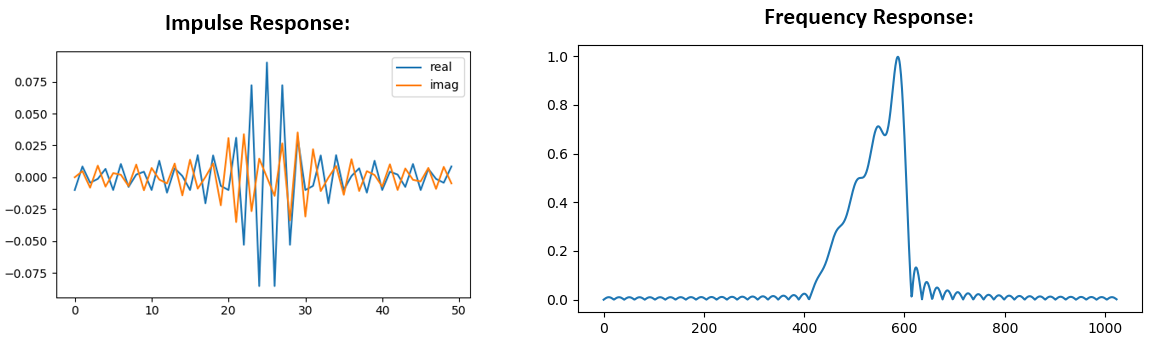
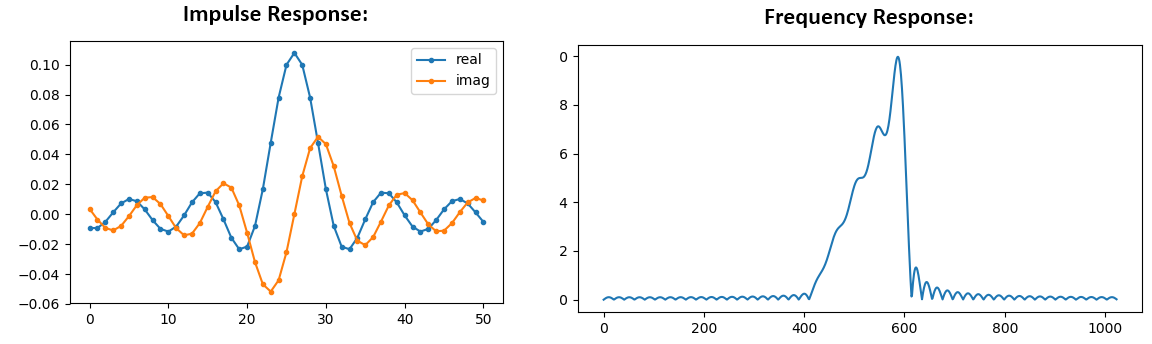
cleaned up filters chapter

diff --git a/conf.py b/conf.py
@@ -153,7 +153,7 @@ html_sidebars = {
 html_theme_options = {'description':'By <a href="https://www.cs.umd.edu/people/sdr">Dr. Marc Lichtman</a>',
                       'logo': 'logo.svg',
                       'logo_name': True, # used if the logo doesn't contain the project name itself
-                      'fixed_sidebar': True,
+                      #'fixed_sidebar': True, # on smaller screens you cant see the whole sidebar, and it wont scroll
                       'page_width': '1000px',
                       'sidebar_width': '280px',
                       'show_powered_by': False,}

diff --git a/content/filters.rst b/content/filters.rst
@@ -197,7 +197,7 @@ As an example of complex taps, let's go back to the filtering use-case, except t
    :scale: 70 % 
    :align: center 
 
-One way to design this kind of filter is to make a low-pass filter with a cutoff of 3 kHz and then frequency shift it.  Remember that we can frequency shift x(t) (time domain) by multiplying it by :math:`e^{j2\pi f_0t}`.  So in this case :math:`f_0` should be 10 kHz, that way it shifts our filter up by 10 kHz. Recall that in our Python code from above, h was the filter taps of the low-pass filter.  In order to create our band-pass filter we just have to multiply those taps by :math:`e^{j2\pi f_0t}`, although that involves creating a vector to represent time, based on our sample period (inverse of sample rate):
+One way to design this kind of filter is to make a **low**-pass filter with a cutoff of 3 kHz and then frequency shift it.  Remember that we can frequency shift x(t) (time domain) by multiplying it by :math:`e^{j2\pi f_0t}`.  So in this case :math:`f_0` should be 10 kHz, that way it shifts our filter up by 10 kHz. Recall that in our Python code from above, h was the filter taps of the low-pass filter.  In order to create our band-pass filter we just have to multiply those taps by :math:`e^{j2\pi f_0t}`, although that involves creating a vector to represent time, based on our sample period (inverse of sample rate):
 
 .. code-block:: python
 	
@@ -292,7 +292,7 @@ where the 0.99 and 0.01 represent the speed the value updates (or rate of decay,
 Filter Design Tools
 *************************
 
-Like I mentioned, we typically use a filter designer tool in practice.  There are plenty of different tools, but for students I recommend this easy-to-use web app by Peter Isza that will show you impulse and frequency response: http://t-filter.engineerjs.com.  Using the default values, at the time of writing this at least, it's set up to design a low-pass filter with a passband from 0 to 400 Hz and stopband from 500 Hz and up.  The sample rate is 2 kHz, so the max frequency we can "see" is 1 kHz. 
+In practice, most people will use a filter designer tool, or a function in code that designs the filter.  There are plenty of different tools, but for students I recommend this easy-to-use web app by Peter Isza that will show you impulse and frequency response: http://t-filter.engineerjs.com.  Using the default values, at the time of writing this at least, it's set up to design a low-pass filter with a passband from 0 to 400 Hz and stopband from 500 Hz and up.  The sample rate is 2 kHz, so the max frequency we can "see" is 1 kHz. 
 
 .. image:: ../_static/filter_designer1.PNG
    :scale: 70 % 
@@ -319,7 +319,7 @@ Convolution
 
 We will take a brief detour to introduce the convolution operator, feel free to skip this section if you are already familiar with it.
 
-Adding two signals together is one way of combining two signals into one, in the Fourier chapter we talked about how the linearity property applies when adding two signals together.  Convolution is another way to combine two signals into one, but it is very different than simply adding them.  The convolution of two signals is like sliding one across the other and integrating.  It is *very* similar to a cross-correlation, if you are familiar with that operation, in fact it is equivalent in a cross-correlation in many cases.  
+Adding two signals together is one way of combining two signals into one, in the Fourier chapter we talked about how the linearity property applies when adding two signals together.  Convolution is another way to combine two signals into one, but it is very different than simply adding them.  The convolution of two signals is like sliding one across the other and integrating.  It is *very* similar to a cross-correlation, if you are familiar with that operation, in fact it is equivalent to a cross-correlation in many cases.  
 
 I believe the convolution operation is best learned through examples.  Please watch both of these videos:
 
@@ -328,19 +328,21 @@ I believe the convolution operation is best learned through examples.  Please wa
 
 In both examples, we have two input signals (one red, one blue), and then the output of the convolution is displayed.  You can see that the output is the integration of the two signals as one slides across the other.  Because of this "sliding" nature, the length of the output is actually longer than the input.  If one signal is :code:`M` samples and the other signal is :code:`N` samples, the convolution of the two can produce :code:`N+M-1` samples.  However, functions such as :code:`numpy.convolve()` have a way to specify whether you want the whole output, or just :code:`max(M, N)` samples, or just the samples where the signals overlapped completely, which is :code:`max(M, N) - min(M, N) + 1` if you were curious.  No need to get caught up in this detail, just know that the length of the output of a convolution is not just the length of the inputs.  
 
-Now why does convolution matter in DSP?  Well for starters, to filter a signal, we can simply take the impulse response and convolve it with the signal.  FIR filters are just a discrete convolution.  
+So why does convolution matter in DSP?  Well for starters, to filter a signal, we can simply take the impulse response of that filter and convolve it with the signal.  It turns out FIR filtering is just a convolution operation.  
 
 .. image:: ../_static/filter_convolve.PNG
    :scale: 70 % 
    :align: center 
 
-This might be confusing because I mentioned that convolution takes in two signals and outputs one signal.  Well we can treat the impulse response like a signal, convolution is just a math operator after all, which operates on two 1D arrays.  If one of those 1D arrays is the filter's impulse response, the other 1D array can be a piece of the input signal, and the output will be a filtered version of the input.  Let's see another example to help this click.  In the example below, the triangle will represent our filter's impulse response, and the :green:`green` signal is our signal being filtered.  
+This might be confusing because earlier we mentioned that convolution takes in two *signals* and outputs one signal.  Well we can treat the impulse response like a signal, convolution is just a math operator after all, which operates on two 1D arrays.  If one of those 1D arrays is the filter's impulse response, the other 1D array can be a piece of the input signal, and the output will be a filtered version of the input.  Let's see another example to help this click.  In the example below, the triangle will represent our filter's impulse response, and the :green:`green` signal is our signal being filtered.  
 
 .. image:: ../_static/convolution.gif
    :scale: 70 % 
    :align: center 
 
-The :red:`red` output is the filtered signal.  What kind of filter was the triangle?  Well it smoothed out the high frequency components of the green signal (i.e. the sharp transitions of the square) so it's acting as a low-pass filter.  
+The :red:`red` output is the filtered signal.  
+
+Question: What kind of filter was the triangle?  Well it smoothed out the high frequency components of the green signal (i.e. the sharp transitions of the square) so it's acting as a low-pass filter.  
 
 *************************
 Filter Design in Python
@@ -366,7 +368,7 @@ And the code used to create this is fairly simple:
 	plt.show()
 
 
-Why know this will lead to a filter with complex taps, why?
+:code:`hstack()` is just one way to concatenate arrays in numpy.  We know this will lead to a filter with complex taps, why?
 
 .. raw:: html
 
@@ -379,25 +381,25 @@ It's not symmetrical around 0 Hz
 
    </details>
 
-Our end goal is to find the taps of this filter so we can actually use it.  How do we get the taps, given the frequency response?  Well, how do we convert from the frequency domain back to the time domain?  Inverse FFT (IFFT)!  And recall that the IFFT function is almost exactly the same as the FFT function.
+Our end goal is to find the taps of this filter so we can actually use it.  How do we get the taps, given the frequency response?  Well, how do we convert from the frequency domain back to the time domain?  Inverse FFT (IFFT)!  And recall that the IFFT function is almost exactly the same as the FFT function.  We also need to ifftshift our desired frequency response before the ifft, and then we need yet another iffshift after the ifft (no, they don't cancel themselves out, you can try).  This might seem confusing, but just remember that you always should fftshift after an fft, and iffshift after an ifft.  
 
 .. code-block:: python
 
-	h = np.fft.fftshift(np.fft.ifft(H))
+	h = np.fft.ifftshift(np.fft.ifft(np.fft.ifftshift(H)))
 	plt.plot(np.real(h))
 	plt.plot(np.imag(h))
 	plt.legend(['real','imag'], loc=1)
 	plt.show()
 	
 .. image:: ../_static/filter_design2.PNG
-   :scale: 70 % 
+   :scale: 90 % 
    :align: center 
 
 Now let's say we use these taps shown above as our filter.  We know that the impulse response is just plotting the taps, so what we see above *is* our impulse response.  Lets take the FFT of our taps to see what the frequency domain actually looks like.  We will do a 1024 point FFT to get a high resolution:
 
 .. code-block:: python
 
-	H_fft = np.abs(np.fft.fft(h, 1024))
+	H_fft = np.fft.fftshift(np.abs(np.fft.fft(h, 1024)))
 	plt.plot(H_fft)
 	plt.show()
 
@@ -435,8 +437,10 @@ Note that it's not very straight... It doesn't match our original very well, rec
    :align: center 
 
 .. image:: ../_static/filter_design6.PNG
-   :scale: 50 % 
+   :scale: 70 % 
    :align: center 
+
+|
 
 .. image:: ../_static/filter_design7.PNG
    :scale: 50 % 
@@ -451,7 +455,7 @@ Intro to Pulse Shaping
 
 We will briefly introduce a very interesting topic within DSP, pulse shaping, a topic we explore in depth in its own chapter.  
 
-As we learned, digital signals use symbols to represent one or more bits of information.  We use a digital modulation scheme like ASK, PSK, QAM, FSK to modulate a carrier so they can be sent wirelessly.  When we simulated QPSK in the Digital Modulation chapter, we only simulated one sample per symbol, i.e. each complex number we created was one of the points on the constellation, it was one symbol.  In practice we usually generate multiple samples per symbol, and the reason has to do with filtering. 
+As we learned, digital signals use symbols to represent one or more bits of information.  We use a digital modulation scheme like ASK, PSK, QAM, FSK, etc, to modulate a carrier so they can be sent wirelessly.  When we simulated QPSK in the Digital Modulation chapter, we only simulated one sample per symbol, i.e. each complex number we created was one of the points on the constellation, it was one symbol.  In practice we usually generate multiple samples per symbol, and the reason has to do with filtering. 
 
 We use filters to craft the "shape" of our symbols, since the shape in the time domain will change the shape in the frequency domain.  The frequency domain is what tells us how much spectrum/bandwidth our signal is going to use, and we usually want to minimize it.  Now what's important to understand is that the spectral characteristics (frequency domain) of the baseband symbols doesn't change when we modulate a carrier, it just shifts it up in frequency, the shape stays the same, which means the amount of bandwidth it uses stays the same.  When we use 1 sample per symbol, it's kind of like transmitting square pulses, in fact BPSK using 1 sample per symbol *is* just a square wave of random 1's and -1's:
 
